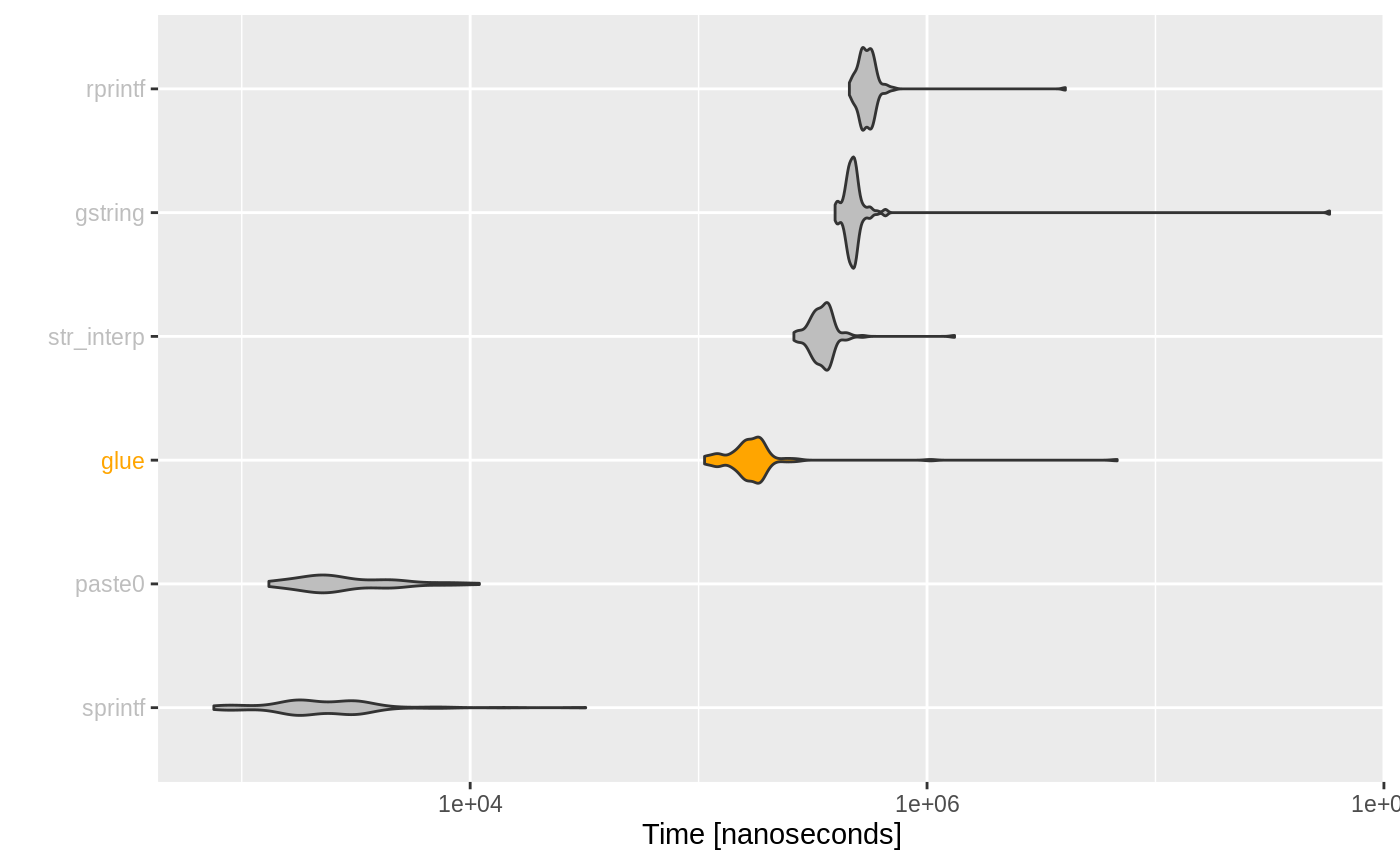
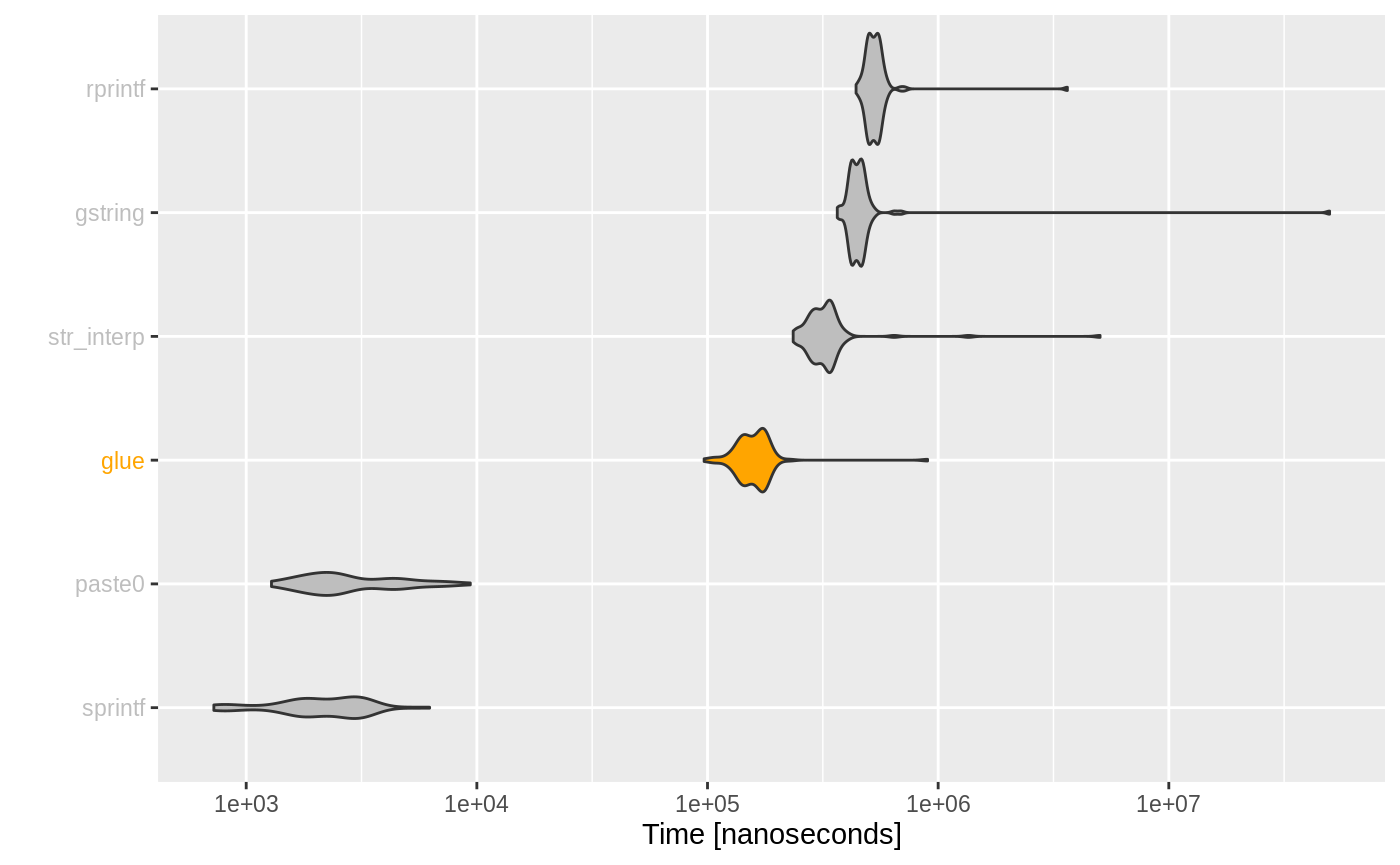
Built site for glue: 1.3.1.9000@1ca738c

diff --git a/dev/reference/glue_sql.html b/dev/reference/glue_sql.html
@@ -61,7 +61,15 @@ SQL quoting." />
 <script src="https://oss.maxcdn.com/respond/1.4.2/respond.min.js"></script>
 <![endif]-->
 
+<!-- Global site tag (gtag.js) - Google Analytics -->
+<script async src="https://www.googletagmanager.com/gtag/js?id=UA-115082821-1"></script>
+<script>
+  window.dataLayer = window.dataLayer || [];
+  function gtag(){dataLayer.push(arguments);}
+  gtag('js', new Date());
 
+  gtag('config', 'UA-115082821-1');
+</script>
 
   </head>
 
@@ -159,8 +167,7 @@ SQL quoting.</p>
 
     <pre class="usage"><span class='fu'>glue_sql</span>(<span class='no'>...</span>, <span class='no'>.con</span>, <span class='kw'>.envir</span> <span class='kw'>=</span> <span class='fu'><a href='https://rdrr.io/r/base/sys.parent.html'>parent.frame</a></span>(), <span class='kw'>.na</span> <span class='kw'>=</span> <span class='kw pkg'>DBI</span><span class='kw ns'>::</span><span class='fu'><a href='https://rdrr.io/pkg/DBI/man/SQL.html'>SQL</a></span>(<span class='st'>"NULL"</span>))
 
-<span class='fu'>glue_data_sql</span>(<span class='no'>.x</span>, <span class='no'>...</span>, <span class='no'>.con</span>, <span class='kw'>.envir</span> <span class='kw'>=</span> <span class='fu'><a href='https://rdrr.io/r/base/sys.parent.html'>parent.frame</a></span>(),
-  <span class='kw'>.na</span> <span class='kw'>=</span> <span class='kw pkg'>DBI</span><span class='kw ns'>::</span><span class='fu'><a href='https://rdrr.io/pkg/DBI/man/SQL.html'>SQL</a></span>(<span class='st'>"NULL"</span>))</pre>
+<span class='fu'>glue_data_sql</span>(<span class='no'>.x</span>, <span class='no'>...</span>, <span class='no'>.con</span>, <span class='kw'>.envir</span> <span class='kw'>=</span> <span class='fu'><a href='https://rdrr.io/r/base/sys.parent.html'>parent.frame</a></span>(), <span class='kw'>.na</span> <span class='kw'>=</span> <span class='kw pkg'>DBI</span><span class='kw ns'>::</span><span class='fu'><a href='https://rdrr.io/pkg/DBI/man/SQL.html'>SQL</a></span>(<span class='st'>"NULL"</span>))</pre>
 
     <h2 class="hasAnchor" id="arguments"><a class="anchor" href="#arguments"></a>Arguments</h2>
     <table class="ref-arguments">
@@ -197,7 +204,9 @@ cause <code>NA</code> output. Otherwise the value is replaced by the value of <c
     <h2 class="hasAnchor" id="details"><a class="anchor" href="#details"></a>Details</h2>
 
     <p>They automatically quote character results, quote identifiers if the glue
-expression is surrounded by backticks &#8216;<code></code> and do not quote non-characters such as numbers. If numeric data is stored in a character column (which should be quoted) pass the data to &#8217;glue_sql()` as a
+expression is surrounded by backticks '<code>`</code>' and do not quote
+non-characters such as numbers. If numeric data is stored in a character
+column (which should be quoted) pass the data to <code>glue_sql()</code> as a
 character.</p>
 <p>Returning the result with <code><a href='https://rdrr.io/pkg/DBI/man/SQL.html'>DBI::SQL()</a></code> will suppress quoting if desired for
 a given value.</p>
@@ -210,8 +219,9 @@ for instance.</p>
 
     <h2 class="hasAnchor" id="examples"><a class="anchor" href="#examples"></a>Examples</h2>
     <pre class="examples"><div class='input'><span class='no'>con</span> <span class='kw'>&lt;-</span> <span class='kw pkg'>DBI</span><span class='kw ns'>::</span><span class='fu'><a href='https://rdrr.io/pkg/DBI/man/dbConnect.html'>dbConnect</a></span>(<span class='kw pkg'>RSQLite</span><span class='kw ns'>::</span><span class='fu'><a href='https://rdrr.io/pkg/RSQLite/man/SQLite.html'>SQLite</a></span>(), <span class='st'>":memory:"</span>)
-<span class='fu'><a href='https://rdrr.io/r/base/colnames.html'>colnames</a></span>(<span class='no'>iris</span>) <span class='kw'>&lt;-</span> <span class='fu'><a href='https://rdrr.io/r/base/grep.html'>gsub</a></span>(<span class='st'>"[.]"</span>, <span class='st'>"_"</span>, <span class='fu'><a href='https://rdrr.io/r/base/chartr.html'>tolower</a></span>(<span class='fu'><a href='https://rdrr.io/r/base/colnames.html'>colnames</a></span>(<span class='no'>iris</span>)))
-<span class='kw pkg'>DBI</span><span class='kw ns'>::</span><span class='fu'><a href='https://rdrr.io/pkg/DBI/man/dbWriteTable.html'>dbWriteTable</a></span>(<span class='no'>con</span>, <span class='st'>"iris"</span>, <span class='no'>iris</span>)
+<span class='no'>iris2</span> <span class='kw'>&lt;-</span> <span class='no'>iris</span>
+<span class='fu'><a href='https://rdrr.io/r/base/colnames.html'>colnames</a></span>(<span class='no'>iris2</span>) <span class='kw'>&lt;-</span> <span class='fu'><a href='https://rdrr.io/r/base/grep.html'>gsub</a></span>(<span class='st'>"[.]"</span>, <span class='st'>"_"</span>, <span class='fu'><a href='https://rdrr.io/r/base/chartr.html'>tolower</a></span>(<span class='fu'><a href='https://rdrr.io/r/base/colnames.html'>colnames</a></span>(<span class='no'>iris</span>)))
+<span class='kw pkg'>DBI</span><span class='kw ns'>::</span><span class='fu'><a href='https://rdrr.io/pkg/DBI/man/dbWriteTable.html'>dbWriteTable</a></span>(<span class='no'>con</span>, <span class='st'>"iris"</span>, <span class='no'>iris2</span>)
 <span class='no'>var</span> <span class='kw'>&lt;-</span> <span class='st'>"sepal_width"</span>
 <span class='no'>tbl</span> <span class='kw'>&lt;-</span> <span class='st'>"iris"</span>
 <span class='no'>num</span> <span class='kw'>&lt;-</span> <span class='fl'>2</span>
@@ -276,12 +286,41 @@ for instance.</p>
   <span class='kw'>vals</span> <span class='kw'>=</span> <span class='st'>"setosa"</span>, <span class='kw'>.con</span> <span class='kw'>=</span> <span class='no'>con</span>)</div><div class='output co'>#&gt; &lt;SQL&gt; SELECT * FROM `iris` WHERE species IN ('setosa')</div><div class='input'>
 <span class='fu'>glue_sql</span>(<span class='st'>"SELECT * FROM {`tbl`} WHERE species IN ({vals*})"</span>,
   <span class='kw'>vals</span> <span class='kw'>=</span> <span class='fu'><a href='https://rdrr.io/r/base/c.html'>c</a></span>(<span class='st'>"setosa"</span>, <span class='st'>"versicolor"</span>), <span class='kw'>.con</span> <span class='kw'>=</span> <span class='no'>con</span>)</div><div class='output co'>#&gt; &lt;SQL&gt; SELECT * FROM `iris` WHERE species IN ('setosa', 'versicolor')</div><div class='input'>
-<span class='co'># If you need to reference a table in a different schema use `DBI::Id()` to</span>
-<span class='co'># construct the identifiers.</span>
-<span class='no'>cols</span> <span class='kw'>&lt;-</span> <span class='fu'><a href='https://rdrr.io/r/base/c.html'>c</a></span>(<span class='st'>"Sepal.Width"</span>, <span class='st'>"Sepal.Length"</span>, <span class='st'>"Species"</span>)
-<span class='no'>col_ids</span> <span class='kw'>&lt;-</span> <span class='fu'><a href='https://rdrr.io/r/base/lapply.html'>lapply</a></span>(<span class='no'>cols</span>, <span class='kw'>function</span>(<span class='no'>x</span>) <span class='kw pkg'>DBI</span><span class='kw ns'>::</span><span class='fu'><a href='https://rdrr.io/pkg/DBI/man/Id.html'>Id</a></span>(<span class='kw'>table</span><span class='kw'>=</span><span class='st'>"iris"</span>, <span class='kw'>column</span> <span class='kw'>=</span> <span class='no'>x</span>))
-<span class='no'>values</span> <span class='kw'>&lt;-</span> <span class='fu'><a href='https://rdrr.io/r/base/c.html'>c</a></span>(<span class='fl'>1</span>, <span class='fl'>2</span>, <span class='st'>'Setosa'</span>)
-<span class='fu'>glue_sql</span>(<span class='st'>"INSERT ({values*}) INTO ({`col_ids`*})"</span>, <span class='kw'>.con</span><span class='kw'>=</span><span class='no'>con</span>)</div><div class='output co'>#&gt; &lt;SQL&gt; INSERT ('1', '2', 'Setosa') INTO (`iris`.`Sepal.Width`, `iris`.`Sepal.Length`, `iris`.`Species`)</div></pre>
+<span class='co'># If you need to reference a variables from multiple tables use `DBI::Id()`.</span>
+<span class='co'># Here we create a new table of nicknames, join the two tables together and</span>
+<span class='co'># select columns from both tables. Using `DBI::Id()` and the special</span>
+<span class='co'># `glue_sql()` syntax ensures all the table and column identifiers are quoted</span>
+<span class='co'># appropriately.</span>
+
+<span class='no'>iris_db</span> <span class='kw'>&lt;-</span> <span class='st'>"iris"</span>
+<span class='no'>nicknames_db</span> <span class='kw'>&lt;-</span> <span class='st'>"nicknames"</span>
+
+<span class='no'>nicknames</span> <span class='kw'>&lt;-</span> <span class='fu'><a href='https://rdrr.io/r/base/data.frame.html'>data.frame</a></span>(
+  <span class='kw'>species</span> <span class='kw'>=</span> <span class='fu'><a href='https://rdrr.io/r/base/c.html'>c</a></span>(<span class='st'>"setosa"</span>, <span class='st'>"versicolor"</span>, <span class='st'>"virginica"</span>),
+  <span class='kw'>nickname</span> <span class='kw'>=</span> <span class='fu'><a href='https://rdrr.io/r/base/c.html'>c</a></span>(<span class='st'>"Beachhead Iris"</span>, <span class='st'>"Harlequin Blueflag"</span>, <span class='st'>"Virginia Iris"</span>),
+  <span class='kw'>stringsAsFactors</span> <span class='kw'>=</span> <span class='fl'>FALSE</span>
+)
+
+<span class='kw pkg'>DBI</span><span class='kw ns'>::</span><span class='fu'><a href='https://rdrr.io/pkg/DBI/man/dbWriteTable.html'>dbWriteTable</a></span>(<span class='no'>con</span>, <span class='no'>nicknames_db</span>, <span class='no'>nicknames</span>)
+
+<span class='no'>cols</span> <span class='kw'>&lt;-</span> <span class='fu'><a href='https://rdrr.io/r/base/list.html'>list</a></span>(
+  <span class='kw pkg'>DBI</span><span class='kw ns'>::</span><span class='fu'><a href='https://rdrr.io/pkg/DBI/man/Id.html'>Id</a></span>(<span class='kw'>table</span> <span class='kw'>=</span> <span class='no'>iris_db</span>, <span class='kw'>column</span> <span class='kw'>=</span> <span class='st'>"sepal_length"</span>),
+  <span class='kw pkg'>DBI</span><span class='kw ns'>::</span><span class='fu'><a href='https://rdrr.io/pkg/DBI/man/Id.html'>Id</a></span>(<span class='kw'>table</span> <span class='kw'>=</span> <span class='no'>iris_db</span>, <span class='kw'>column</span> <span class='kw'>=</span> <span class='st'>"sepal_width"</span>),
+  <span class='kw pkg'>DBI</span><span class='kw ns'>::</span><span class='fu'><a href='https://rdrr.io/pkg/DBI/man/Id.html'>Id</a></span>(<span class='kw'>table</span> <span class='kw'>=</span> <span class='no'>nicknames_db</span>, <span class='kw'>column</span> <span class='kw'>=</span> <span class='st'>"nickname"</span>)
+)
+
+<span class='no'>iris_species</span> <span class='kw'>&lt;-</span> <span class='kw pkg'>DBI</span><span class='kw ns'>::</span><span class='fu'><a href='https://rdrr.io/pkg/DBI/man/Id.html'>Id</a></span>(<span class='kw'>table</span> <span class='kw'>=</span> <span class='no'>iris_db</span>, <span class='kw'>column</span> <span class='kw'>=</span> <span class='st'>"species"</span>)
+<span class='no'>nicknames_species</span> <span class='kw'>&lt;-</span> <span class='kw pkg'>DBI</span><span class='kw ns'>::</span><span class='fu'><a href='https://rdrr.io/pkg/DBI/man/Id.html'>Id</a></span>(<span class='kw'>table</span> <span class='kw'>=</span> <span class='no'>nicknames_db</span>, <span class='kw'>column</span> <span class='kw'>=</span> <span class='st'>"species"</span>)
+
+<span class='no'>query</span> <span class='kw'>&lt;-</span> <span class='fu'>glue_sql</span>(<span class='st'>"SELECT {`cols`*} FROM {`iris_db`} JOIN {`nicknames_db`} ON {`iris_species`}={`nicknames_species`}"</span>, <span class='kw'>.con</span> <span class='kw'>=</span> <span class='no'>con</span>)
+<span class='no'>query</span></div><div class='output co'>#&gt; &lt;SQL&gt; SELECT `iris`.`sepal_length`, `iris`.`sepal_width`, `nicknames`.`nickname` FROM `iris` JOIN `nicknames` ON `iris`.`species`=`nicknames`.`species`</div><div class='input'>
+<span class='kw pkg'>DBI</span><span class='kw ns'>::</span><span class='fu'><a href='https://rdrr.io/pkg/DBI/man/dbGetQuery.html'>dbGetQuery</a></span>(<span class='no'>con</span>, <span class='no'>query</span>, <span class='kw'>n</span> <span class='kw'>=</span> <span class='fl'>5</span>)</div><div class='output co'>#&gt;   sepal_length sepal_width       nickname
+#&gt; 1          5.1         3.5 Beachhead Iris
+#&gt; 2          4.9         3.0 Beachhead Iris
+#&gt; 3          4.7         3.2 Beachhead Iris
+#&gt; 4          4.6         3.1 Beachhead Iris
+#&gt; 5          5.0         3.6 Beachhead Iris</div><div class='input'>
+<span class='kw pkg'>DBI</span><span class='kw ns'>::</span><span class='fu'><a href='https://rdrr.io/pkg/DBI/man/dbDisconnect.html'>dbDisconnect</a></span>(<span class='no'>con</span>)</div></pre>
   </div>
   <div class="col-md-3 hidden-xs hidden-sm" id="sidebar">
     <h2>Contents</h2>

diff --git a/dev/articles/speed.html b/dev/articles/speed.html
@@ -25,7 +25,13 @@
 <!-- mathjax --><script src="https://cdnjs.cloudflare.com/ajax/libs/mathjax/2.7.5/MathJax.js" integrity="sha256-nvJJv9wWKEm88qvoQl9ekL2J+k/RWIsaSScxxlsrv8k=" crossorigin="anonymous"></script><script src="https://cdnjs.cloudflare.com/ajax/libs/mathjax/2.7.5/config/TeX-AMS-MML_HTMLorMML.js" integrity="sha256-84DKXVJXs0/F8OTMzX4UR909+jtl4G7SPypPavF+GfA=" crossorigin="anonymous"></script><!--[if lt IE 9]>
 <script src="https://oss.maxcdn.com/html5shiv/3.7.3/html5shiv.min.js"></script>
 <script src="https://oss.maxcdn.com/respond/1.4.2/respond.min.js"></script>
-<![endif]-->
+<![endif]--><!-- Global site tag (gtag.js) - Google Analytics --><script async src="https://www.googletagmanager.com/gtag/js?id=UA-115082821-1"></script><script>
+  window.dataLayer = window.dataLayer || [];
+  function gtag(){dataLayer.push(arguments);}
+  gtag('js', new Date());
+
+  gtag('config', 'UA-115082821-1');
+</script>
 </head>
 <body>
     <div class="container template-article">
@@ -147,13 +153,13 @@
 <a class="sourceLine" id="cb1-12" data-line-number="12"></a>
 <a class="sourceLine" id="cb1-13" data-line-number="13"><span class="kw"><a href="https://rdrr.io/r/base/print.html">print</a></span>(<span class="dt">unit =</span> <span class="st">"eps"</span>, <span class="dt">order =</span> <span class="st">"median"</span>, <span class="dt">signif =</span> <span class="dv">4</span>, simple)</a>
 <a class="sourceLine" id="cb1-14" data-line-number="14"><span class="co">#&gt; Unit: evaluations per second</span></a>
-<a class="sourceLine" id="cb1-15" data-line-number="15"><span class="co">#&gt;        expr      min     lq   mean median     uq     max neval</span></a>
-<a class="sourceLine" id="cb1-16" data-line-number="16"><span class="co">#&gt;     rprintf   248.00   1736   1828   1843   1940    2188   100</span></a>
-<a class="sourceLine" id="cb1-17" data-line-number="17"><span class="co">#&gt;     gstring    17.29   2040   2099   2116   2207    2527   100</span></a>
-<a class="sourceLine" id="cb1-18" data-line-number="18"><span class="co">#&gt;  str_interp   757.90   2686   2889   2844   3105    3827   100</span></a>
-<a class="sourceLine" id="cb1-19" data-line-number="19"><span class="co">#&gt;        glue   147.10   5379   6107   6011   6632    9418   100</span></a>
-<a class="sourceLine" id="cb1-20" data-line-number="20"><span class="co">#&gt;      paste0 91130.00 241100 397500 407100 491900  760500   100</span></a>
-<a class="sourceLine" id="cb1-21" data-line-number="21"><span class="co">#&gt;     sprintf 31210.00 321200 529500 495200 601000 1325000   100</span></a>
+<a class="sourceLine" id="cb1-15" data-line-number="15"><span class="co">#&gt;        expr       min     lq   mean median     uq     max neval</span></a>
+<a class="sourceLine" id="cb1-16" data-line-number="16"><span class="co">#&gt;     rprintf    275.30   1798   1885   1883   2003    2269   100</span></a>
+<a class="sourceLine" id="cb1-17" data-line-number="17"><span class="co">#&gt;     gstring     20.08   2118   2218   2223   2363    2738   100</span></a>
+<a class="sourceLine" id="cb1-18" data-line-number="18"><span class="co">#&gt;  str_interp    198.60   2910   3150   3098   3486    4252   100</span></a>
+<a class="sourceLine" id="cb1-19" data-line-number="19"><span class="co">#&gt;        glue   1111.00   5692   6439   6325   7031   10340   100</span></a>
+<a class="sourceLine" id="cb1-20" data-line-number="20"><span class="co">#&gt;      paste0 106800.00 238900 396500 406800 522500  777000   100</span></a>
+<a class="sourceLine" id="cb1-21" data-line-number="21"><span class="co">#&gt;     sprintf 160300.00 330200 553900 492400 610500 1381000   100</span></a>
 <a class="sourceLine" id="cb1-22" data-line-number="22"></a>
 <a class="sourceLine" id="cb1-23" data-line-number="23"><span class="kw">plot_comparison</span>(simple)</a></code></pre></div>
 <p><img src="speed_files/figure-html/unnamed-chunk-1-1.png" width="700"></p>
@@ -181,11 +187,11 @@
 <a class="sourceLine" id="cb2-12" data-line-number="12"><span class="kw"><a href="https://rdrr.io/r/base/print.html">print</a></span>(<span class="dt">unit =</span> <span class="st">"ms"</span>, <span class="dt">order =</span> <span class="st">"median"</span>, <span class="dt">signif =</span> <span class="dv">4</span>, vectorized)</a>
 <a class="sourceLine" id="cb2-13" data-line-number="13"><span class="co">#&gt; Unit: milliseconds</span></a>
 <a class="sourceLine" id="cb2-14" data-line-number="14"><span class="co">#&gt;     expr   min    lq  mean median    uq   max neval</span></a>
-<a class="sourceLine" id="cb2-15" data-line-number="15"><span class="co">#&gt;  sprintf 14.50 14.64 14.92  14.75 15.02 19.94   100</span></a>
-<a class="sourceLine" id="cb2-16" data-line-number="16"><span class="co">#&gt;   paste0 16.36 16.51 16.73  16.61 16.83 18.07   100</span></a>
-<a class="sourceLine" id="cb2-17" data-line-number="17"><span class="co">#&gt;     glue 20.63 21.03 21.73  21.22 21.60 27.02   100</span></a>
-<a class="sourceLine" id="cb2-18" data-line-number="18"><span class="co">#&gt;  gstring 34.48 34.94 35.66  35.11 35.52 43.64   100</span></a>
-<a class="sourceLine" id="cb2-19" data-line-number="19"><span class="co">#&gt;  rprintf 55.61 56.10 57.03  56.56 57.10 63.78   100</span></a>
+<a class="sourceLine" id="cb2-15" data-line-number="15"><span class="co">#&gt;  sprintf 14.56 14.82 15.39  15.14 15.38 22.78   100</span></a>
+<a class="sourceLine" id="cb2-16" data-line-number="16"><span class="co">#&gt;   paste0 16.51 16.72 16.94  16.85 17.13 17.89   100</span></a>
+<a class="sourceLine" id="cb2-17" data-line-number="17"><span class="co">#&gt;     glue 20.51 21.10 21.89  21.48 22.29 26.96   100</span></a>
+<a class="sourceLine" id="cb2-18" data-line-number="18"><span class="co">#&gt;  gstring 34.52 35.13 35.87  35.59 36.21 43.16   100</span></a>
+<a class="sourceLine" id="cb2-19" data-line-number="19"><span class="co">#&gt;  rprintf 55.40 56.54 57.62  57.14 58.37 65.72   100</span></a>
 <a class="sourceLine" id="cb2-20" data-line-number="20"></a>
 <a class="sourceLine" id="cb2-21" data-line-number="21"><span class="kw">plot_comparison</span>(vectorized, <span class="dt">log =</span> <span class="ot">FALSE</span>)</a></code></pre></div>
 <p><img src="speed_files/figure-html/unnamed-chunk-2-1.png" width="700"></p>

diff --git a/dev/reference/glue.html b/dev/reference/glue.html
@@ -60,7 +60,15 @@ from the first and last lines are automatically trimmed." />
 <script src="https://oss.maxcdn.com/respond/1.4.2/respond.min.js"></script>
 <![endif]-->
 
+<!-- Global site tag (gtag.js) - Google Analytics -->
+<script async src="https://www.googletagmanager.com/gtag/js?id=UA-115082821-1"></script>
+<script>
+  window.dataLayer = window.dataLayer || [];
+  function gtag(){dataLayer.push(arguments);}
+  gtag('js', new Date());
 
+  gtag('config', 'UA-115082821-1');
+</script>
 
   </head>
 
@@ -155,13 +163,28 @@ broken by line and concatenated together. Leading whitespace and blank lines
 from the first and last lines are automatically trimmed.</p>
     </div>
 
-    <pre class="usage"><span class='fu'>glue_data</span>(<span class='no'>.x</span>, <span class='no'>...</span>, <span class='kw'>.sep</span> <span class='kw'>=</span> <span class='st'>""</span>, <span class='kw'>.envir</span> <span class='kw'>=</span> <span class='fu'><a href='https://rdrr.io/r/base/sys.parent.html'>parent.frame</a></span>(), <span class='kw'>.open</span> <span class='kw'>=</span> <span class='st'>"{"</span>,
-  <span class='kw'>.close</span> <span class='kw'>=</span> <span class='st'>"}"</span>, <span class='kw'>.na</span> <span class='kw'>=</span> <span class='st'>"NA"</span>, <span class='kw'>.transformer</span> <span class='kw'>=</span> <span class='no'>identity_transformer</span>,
-  <span class='kw'>.trim</span> <span class='kw'>=</span> <span class='fl'>TRUE</span>)
+    <pre class="usage"><span class='fu'>glue_data</span>(
+  <span class='no'>.x</span>,
+  <span class='no'>...</span>,
+  <span class='kw'>.sep</span> <span class='kw'>=</span> <span class='st'>""</span>,
+  <span class='kw'>.envir</span> <span class='kw'>=</span> <span class='fu'><a href='https://rdrr.io/r/base/sys.parent.html'>parent.frame</a></span>(),
+  <span class='kw'>.open</span> <span class='kw'>=</span> <span class='st'>"{"</span>,
+  <span class='kw'>.close</span> <span class='kw'>=</span> <span class='st'>"}"</span>,
+  <span class='kw'>.na</span> <span class='kw'>=</span> <span class='st'>"NA"</span>,
+  <span class='kw'>.transformer</span> <span class='kw'>=</span> <span class='no'>identity_transformer</span>,
+  <span class='kw'>.trim</span> <span class='kw'>=</span> <span class='fl'>TRUE</span>
+)
 
-<span class='fu'>glue</span>(<span class='no'>...</span>, <span class='kw'>.sep</span> <span class='kw'>=</span> <span class='st'>""</span>, <span class='kw'>.envir</span> <span class='kw'>=</span> <span class='fu'><a href='https://rdrr.io/r/base/sys.parent.html'>parent.frame</a></span>(), <span class='kw'>.open</span> <span class='kw'>=</span> <span class='st'>"{"</span>,
-  <span class='kw'>.close</span> <span class='kw'>=</span> <span class='st'>"}"</span>, <span class='kw'>.na</span> <span class='kw'>=</span> <span class='st'>"NA"</span>, <span class='kw'>.transformer</span> <span class='kw'>=</span> <span class='no'>identity_transformer</span>,
-  <span class='kw'>.trim</span> <span class='kw'>=</span> <span class='fl'>TRUE</span>)</pre>
+<span class='fu'>glue</span>(
+  <span class='no'>...</span>,
+  <span class='kw'>.sep</span> <span class='kw'>=</span> <span class='st'>""</span>,
+  <span class='kw'>.envir</span> <span class='kw'>=</span> <span class='fu'><a href='https://rdrr.io/r/base/sys.parent.html'>parent.frame</a></span>(),
+  <span class='kw'>.open</span> <span class='kw'>=</span> <span class='st'>"{"</span>,
+  <span class='kw'>.close</span> <span class='kw'>=</span> <span class='st'>"}"</span>,
+  <span class='kw'>.na</span> <span class='kw'>=</span> <span class='st'>"NA"</span>,
+  <span class='kw'>.transformer</span> <span class='kw'>=</span> <span class='no'>identity_transformer</span>,
+  <span class='kw'>.trim</span> <span class='kw'>=</span> <span class='fl'>TRUE</span>
+)</pre>
 
     <h2 class="hasAnchor" id="arguments"><a class="anchor" href="#arguments"></a>Arguments</h2>
     <table class="ref-arguments">
@@ -186,12 +209,12 @@ evaluated in that environment and <code>.envir</code> is ignored.</p></td>
     </tr>
     <tr>
       <th>.open</th>
-      <td><p>[<code><a href='https://rdrr.io/r/base/character.html'>character(1)</a></code>: &#8216;{&#8217;]<br /> The opening delimiter. Doubling the
+      <td><p>[<code><a href='https://rdrr.io/r/base/character.html'>character(1)</a></code>: &#8216;\{&#8217;]<br /> The opening delimiter. Doubling the
 full delimiter escapes it.</p></td>
     </tr>
     <tr>
       <th>.close</th>
-      <td><p>[<code><a href='https://rdrr.io/r/base/character.html'>character(1)</a></code>: &#8216;}&#8217;]<br /> The closing delimiter. Doubling the
+      <td><p>[<code><a href='https://rdrr.io/r/base/character.html'>character(1)</a></code>: &#8216;\}&#8217;]<br /> The closing delimiter. Doubling the
 full delimiter escapes it.</p></td>
     </tr>
     <tr>

diff --git a/dev/news/index.html b/dev/news/index.html
@@ -57,7 +57,15 @@
 <script src="https://oss.maxcdn.com/respond/1.4.2/respond.min.js"></script>
 <![endif]-->
 
+<!-- Global site tag (gtag.js) - Google Analytics -->
+<script async src="https://www.googletagmanager.com/gtag/js?id=UA-115082821-1"></script>
+<script>
+  window.dataLayer = window.dataLayer || [];
+  function gtag(){dataLayer.push(arguments);}
+  gtag('js', new Date());
 
+  gtag('config', 'UA-115082821-1');
+</script>
 
   </head>
 
@@ -150,6 +158,7 @@
 <a href="#glue-development-version" class="anchor"></a>glue (development version)<small> Unreleased </small>
 </h1>
 <ul>
+<li><p><code><a href="../reference/glue_sql.html">glue_sql()</a></code> now quotes lists of values appropriate to their type, rather than coercing all values to characters (<a href='https://github.com/tidyverse/glue/issues/153'>#153</a>)</p></li>
 <li><p><code><a href="../reference/glue.html">glue_data()</a></code> now implicitly coerces <code>.x</code> to a list.</p></li>
 <li><p><code><a href="../reference/glue.html">glue()</a></code> gains the <code>.trim</code> argument, like <code><a href="../reference/glue.html">glue_data()</a></code>.</p></li>
 <li><p><code><a href="../reference/quoting.html">single_quote()</a></code> <code><a href="../reference/quoting.html">double_quote()</a></code> and <code><a href="../reference/quoting.html">backtick()</a></code> all return <code>NA</code> for <code>NA</code> inputs (<a href='https://github.com/tidyverse/glue/issues/135'>#135</a>).</p></li>

diff --git a/dev/reference/trim.html b/dev/reference/trim.html
@@ -48,7 +48,7 @@ with the following features.
 Leading and trailing whitespace from the first and last lines is removed.
 A uniform amount of indentation is stripped from the second line on, equal
 to the minimum indentation of all non-blank lines after the first.
-Lines can be continued across newlines by using \.
+Lines can be continued across newlines by using \\.
 
 " />
 <meta property="og:image" content="https://glue.tidyverse.org/logo.png" />
@@ -66,7 +66,15 @@ Lines can be continued across newlines by using \.
 <script src="https://oss.maxcdn.com/respond/1.4.2/respond.min.js"></script>
 <![endif]-->
 
+<!-- Global site tag (gtag.js) - Google Analytics -->
+<script async src="https://www.googletagmanager.com/gtag/js?id=UA-115082821-1"></script>
+<script>
+  window.dataLayer = window.dataLayer || [];
+  function gtag(){dataLayer.push(arguments);}
+  gtag('js', new Date());
 
+  gtag('config', 'UA-115082821-1');
+</script>
 
   </head>
 
@@ -162,7 +170,7 @@ with the following features.</p><ul>
 <li><p>Leading and trailing whitespace from the first and last lines is removed.</p></li>
 <li><p>A uniform amount of indentation is stripped from the second line on, equal
 to the minimum indentation of all non-blank lines after the first.</p></li>
-<li><p>Lines can be continued across newlines by using <code>\</code>.</p></li>
+<li><p>Lines can be continued across newlines by using <code>\\</code>.</p></li>
 </ul>
 
     </div>

diff --git a/dev/articles/releases/glue-1.2.0.html b/dev/articles/releases/glue-1.2.0.html
@@ -25,7 +25,13 @@
 <!-- mathjax --><script src="https://cdnjs.cloudflare.com/ajax/libs/mathjax/2.7.5/MathJax.js" integrity="sha256-nvJJv9wWKEm88qvoQl9ekL2J+k/RWIsaSScxxlsrv8k=" crossorigin="anonymous"></script><script src="https://cdnjs.cloudflare.com/ajax/libs/mathjax/2.7.5/config/TeX-AMS-MML_HTMLorMML.js" integrity="sha256-84DKXVJXs0/F8OTMzX4UR909+jtl4G7SPypPavF+GfA=" crossorigin="anonymous"></script><!--[if lt IE 9]>
 <script src="https://oss.maxcdn.com/html5shiv/3.7.3/html5shiv.min.js"></script>
 <script src="https://oss.maxcdn.com/respond/1.4.2/respond.min.js"></script>
-<![endif]-->
+<![endif]--><!-- Global site tag (gtag.js) - Google Analytics --><script async src="https://www.googletagmanager.com/gtag/js?id=UA-115082821-1"></script><script>
+  window.dataLayer = window.dataLayer || [];
+  function gtag(){dataLayer.push(arguments);}
+  gtag('js', new Date());
+
+  gtag('config', 'UA-115082821-1');
+</script>
 </head>
 <body>
     <div class="container template-article">

diff --git a/dev/articles/transformers.html b/dev/articles/transformers.html
@@ -25,7 +25,13 @@
 <!-- mathjax --><script src="https://cdnjs.cloudflare.com/ajax/libs/mathjax/2.7.5/MathJax.js" integrity="sha256-nvJJv9wWKEm88qvoQl9ekL2J+k/RWIsaSScxxlsrv8k=" crossorigin="anonymous"></script><script src="https://cdnjs.cloudflare.com/ajax/libs/mathjax/2.7.5/config/TeX-AMS-MML_HTMLorMML.js" integrity="sha256-84DKXVJXs0/F8OTMzX4UR909+jtl4G7SPypPavF+GfA=" crossorigin="anonymous"></script><!--[if lt IE 9]>
 <script src="https://oss.maxcdn.com/html5shiv/3.7.3/html5shiv.min.js"></script>
 <script src="https://oss.maxcdn.com/respond/1.4.2/respond.min.js"></script>
-<![endif]-->
+<![endif]--><!-- Global site tag (gtag.js) - Google Analytics --><script async src="https://www.googletagmanager.com/gtag/js?id=UA-115082821-1"></script><script>
+  window.dataLayer = window.dataLayer || [];
+  function gtag(){dataLayer.push(arguments);}
+  gtag('js', new Date());
+
+  gtag('config', 'UA-115082821-1');
+</script>
 </head>
 <body>
     <div class="container template-article">

diff --git a/dev/index.html b/dev/index.html
@@ -28,7 +28,13 @@
 <!-- mathjax --><script src="https://cdnjs.cloudflare.com/ajax/libs/mathjax/2.7.5/MathJax.js" integrity="sha256-nvJJv9wWKEm88qvoQl9ekL2J+k/RWIsaSScxxlsrv8k=" crossorigin="anonymous"></script><script src="https://cdnjs.cloudflare.com/ajax/libs/mathjax/2.7.5/config/TeX-AMS-MML_HTMLorMML.js" integrity="sha256-84DKXVJXs0/F8OTMzX4UR909+jtl4G7SPypPavF+GfA=" crossorigin="anonymous"></script><!--[if lt IE 9]>
 <script src="https://oss.maxcdn.com/html5shiv/3.7.3/html5shiv.min.js"></script>
 <script src="https://oss.maxcdn.com/respond/1.4.2/respond.min.js"></script>
-<![endif]-->
+<![endif]--><!-- Global site tag (gtag.js) - Google Analytics --><script async src="https://www.googletagmanager.com/gtag/js?id=UA-115082821-1"></script><script>
+  window.dataLayer = window.dataLayer || [];
+  function gtag(){dataLayer.push(arguments);}
+  gtag('js', new Date());
+
+  gtag('config', 'UA-115082821-1');
+</script>
 </head>
 <body>
     <div class="container template-home">

diff --git a/dev/reference/glue_col.html b/dev/reference/glue_col.html
@@ -67,7 +67,15 @@ expression (these can be nested).{blue 1 + 1 = {1 + 1}}
 <script src="https://oss.maxcdn.com/respond/1.4.2/respond.min.js"></script>
 <![endif]-->
 
+<!-- Global site tag (gtag.js) - Google Analytics -->
+<script async src="https://www.googletagmanager.com/gtag/js?id=UA-115082821-1"></script>
+<script>
+  window.dataLayer = window.dataLayer || [];
+  function gtag(){dataLayer.push(arguments);}
+  gtag('js', new Date());
 
+  gtag('config', 'UA-115082821-1');
+</script>
 
   </head>
 

diff --git a/dev/reference/quoting.html b/dev/reference/quoting.html
@@ -59,7 +59,15 @@ in conjunction with glue_collapse()." />
 <script src="https://oss.maxcdn.com/respond/1.4.2/respond.min.js"></script>
 <![endif]-->
 
+<!-- Global site tag (gtag.js) - Google Analytics -->
+<script async src="https://www.googletagmanager.com/gtag/js?id=UA-115082821-1"></script>
+<script>
+  window.dataLayer = window.dataLayer || [];
+  function gtag(){dataLayer.push(arguments);}
+  gtag('js', new Date());
 
+  gtag('config', 'UA-115082821-1');
+</script>
 
   </head>
 

diff --git a/dev/reference/glue-deprecated.html b/dev/reference/glue-deprecated.html
@@ -59,7 +59,15 @@ in a future version." />
 <script src="https://oss.maxcdn.com/respond/1.4.2/respond.min.js"></script>
 <![endif]-->
 
+<!-- Global site tag (gtag.js) - Google Analytics -->
+<script async src="https://www.googletagmanager.com/gtag/js?id=UA-115082821-1"></script>
+<script>
+  window.dataLayer = window.dataLayer || [];
+  function gtag(){dataLayer.push(arguments);}
+  gtag('js', new Date());
 
+  gtag('config', 'UA-115082821-1');
+</script>
 
   </head>
 

diff --git a/dev/reference/identity_transformer.html b/dev/reference/identity_transformer.html
@@ -59,7 +59,15 @@ transformer." />
 <script src="https://oss.maxcdn.com/respond/1.4.2/respond.min.js"></script>
 <![endif]-->
 
+<!-- Global site tag (gtag.js) - Google Analytics -->
+<script async src="https://www.googletagmanager.com/gtag/js?id=UA-115082821-1"></script>
+<script>
+  window.dataLayer = window.dataLayer || [];
+  function gtag(){dataLayer.push(arguments);}
+  gtag('js', new Date());
 
+  gtag('config', 'UA-115082821-1');
+</script>
 
   </head>
 
